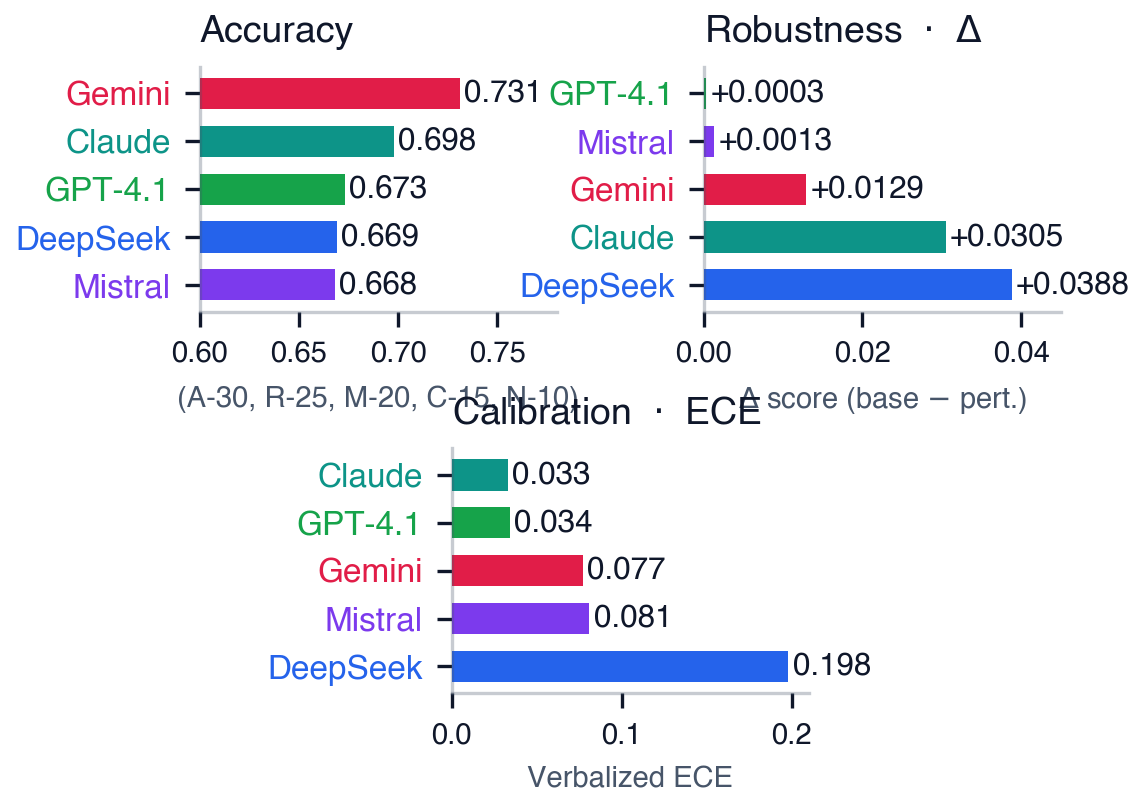
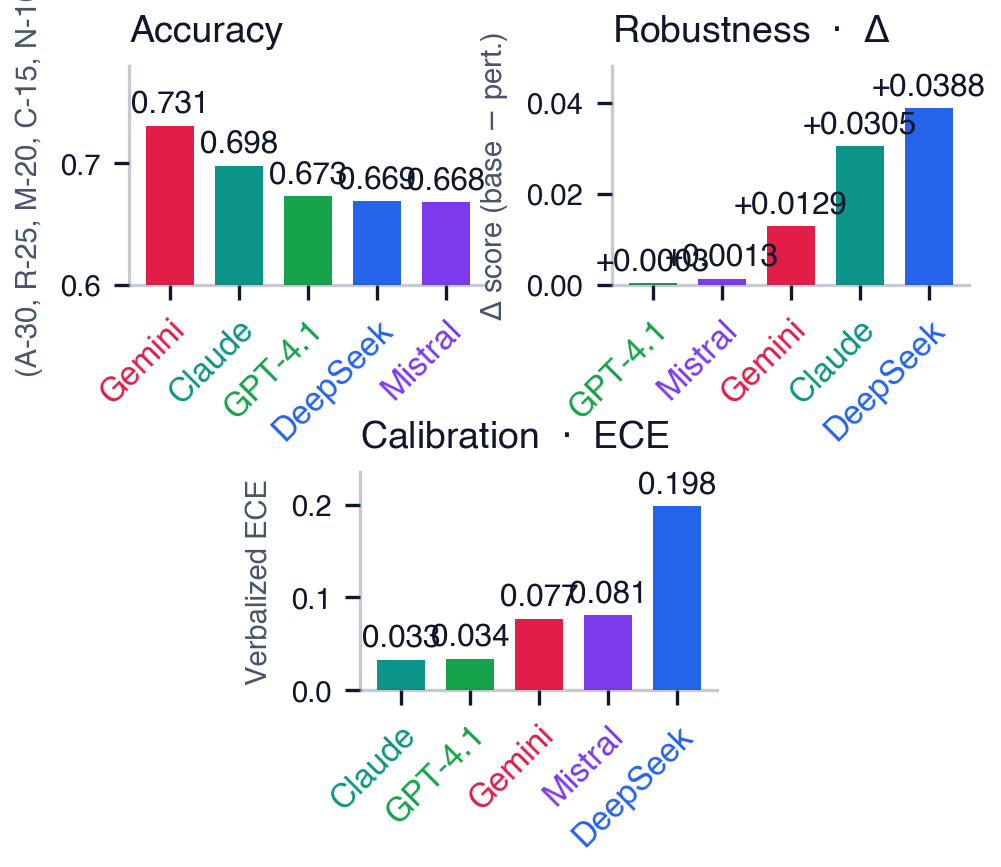
Fig. 2: vertical bars, values on top, 45-deg model labels
Restructures Fig. 2 from horizontal bars to vertical bars:
- bar() instead of barh(); values shown above each bar
- Model names rotated 45 degrees on x-axis, colored to match bars
- Wider row separation (0.24 figure units between top-row bottom
  and ECE-panel top) so 'Calibration . ECE' title no longer
  overlaps top-row x-axis text
- Y-axis carries the metric description (A-30/R-25/M-20/C-15/N-10,
  Delta score, Verbalized ECE) since x is now the model dimension
- figsize 3.5x2.6 inches (was 3.6 in the original spec; reduced to
  fit 6 pages given the externally-added Robustness Score Ratio
  prose in methodology + appendix)

diff --git a/code/visualization/paper_figures/per_metric_leaderboard_paper.py b/code/visualization/paper_figures/per_metric_leaderboard_paper.py
@@ -100,31 +100,31 @@ CALIBRATION_DATA = [
 ]
 
 
-def _draw_panel(ax, data, *, xlim, title, xlabel, value_fmt):
+def _draw_panel(ax, data, *, ylim, title, ylabel, value_fmt):
     models = [m for m, _ in data]
     values = [v for _, v in data]
-    y_pos = np.arange(len(models))
+    colors = [MODEL_COLORS[m] for m in models]
+    x_pos = np.arange(len(models))
 
-    for i, m in enumerate(models):
-        ax.barh(y_pos[i], values[i], color=MODEL_COLORS[m], height=0.65)
+    ax.bar(x_pos, values, color=colors, width=0.7, edgecolor="none")
 
-    span = xlim[1] - xlim[0]
-    label_offset = span * 0.012
+    span = ylim[1] - ylim[0]
+    label_offset = span * 0.03
     for i, v in enumerate(values):
-        ax.text(v + label_offset, y_pos[i], value_fmt.format(v),
-                va="center", ha="left",
+        ax.text(i, v + label_offset, value_fmt.format(v),
+                ha="center", va="bottom",
                 color=PRINT_FG, fontsize=VALUE_FONTSIZE, fontweight="bold")
 
-    ax.set_yticks(y_pos)
-    ax.set_yticklabels(models, fontsize=MODEL_LABEL_FONTSIZE,
-                       fontweight="bold")
-    for tick, m in zip(ax.get_yticklabels(), models):
-        tick.set_color(MODEL_COLORS[m])
-    ax.invert_yaxis()
+    ax.set_xticks(x_pos)
+    ax.set_xticklabels(models, rotation=45, ha="right",
+                       rotation_mode="anchor",
+                       fontsize=MODEL_LABEL_FONTSIZE, fontweight="bold")
+    for tick_label, color in zip(ax.get_xticklabels(), colors):
+        tick_label.set_color(color)
 
-    ax.set_xlim(*xlim)
-    ax.set_xlabel(xlabel, color=PRINT_FG_MUTED, fontsize=XLABEL_FONTSIZE)
-    ax.tick_params(axis="x", labelsize=TICK_FONTSIZE)
+    ax.set_ylim(*ylim)
+    ax.set_ylabel(ylabel, color=PRINT_FG_MUTED, fontsize=XLABEL_FONTSIZE)
+    ax.tick_params(axis="y", labelsize=TICK_FONTSIZE)
     ax.set_title(title, fontsize=TITLE_FONTSIZE, fontweight="bold",
                  color=PRINT_FG, pad=6, loc="left")
     _dim_spines(ax)
@@ -134,30 +134,30 @@ def _draw_panel(ax, data, *, xlim, title, xlabel, value_fmt):
 
 def main():
     _apply_theme()
-    fig = plt.figure(figsize=(3.5, 2.4), dpi=300, facecolor=PRINT_BG)
+    fig = plt.figure(figsize=(3.5, 2.6), dpi=300, facecolor=PRINT_BG)
     # Explicit figure-relative coordinates [left, bottom, width, height].
-    # Top row: Accuracy left, Robustness right, gap of 0.14 figure units.
-    # Bottom row: ECE centered at the same panel width as the top row.
-    ax_acc = fig.add_axes([0.10, 0.60, 0.34, 0.34])
-    ax_rob = fig.add_axes([0.58, 0.60, 0.34, 0.34])
-    ax_ece = fig.add_axes([0.34, 0.07, 0.34, 0.34])
+    # Top row: y from 0.62 to 0.90. Bottom row: y from 0.10 to 0.38.
+    # Gap = 0.24 — clear of top-row 45-deg x-labels + ECE title.
+    ax_acc = fig.add_axes([0.12, 0.62, 0.34, 0.28])
+    ax_rob = fig.add_axes([0.58, 0.62, 0.34, 0.28])
+    ax_ece = fig.add_axes([0.34, 0.10, 0.34, 0.28])
 
     _draw_panel(ax_acc, ACCURACY_DATA,
-                xlim=(0.6, 0.78),
+                ylim=(0.60, 0.78),
                 title="Accuracy",
-                xlabel="(A-30, R-25, M-20, C-15, N-10)",
+                ylabel="(A-30, R-25, M-20, C-15, N-10)",
                 value_fmt="{:.3f}")
 
     _draw_panel(ax_rob, ROBUSTNESS_DATA,
-                xlim=(0.0, 0.045),
+                ylim=(0.0, 0.048),
                 title=r"Robustness  $\cdot$  $\Delta$",
-                xlabel=r"$\Delta$ score (base $-$ pert.)",
+                ylabel=r"$\Delta$ score (base $-$ pert.)",
                 value_fmt="{:+.4f}")
 
     _draw_panel(ax_ece, CALIBRATION_DATA,
-                xlim=(0.0, 0.21),
+                ylim=(0.0, 0.235),
                 title=r"Calibration  $\cdot$  ECE",
-                xlabel="Verbalized ECE",
+                ylabel="Verbalized ECE",
                 value_fmt="{:.3f}")
 
     OUT_PATH.parent.mkdir(parents=True, exist_ok=True)